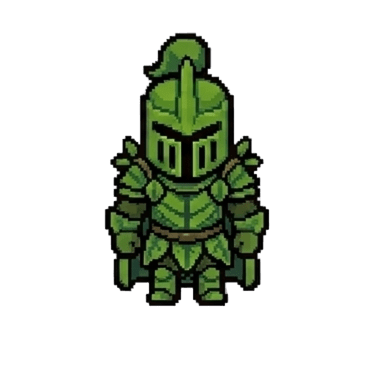
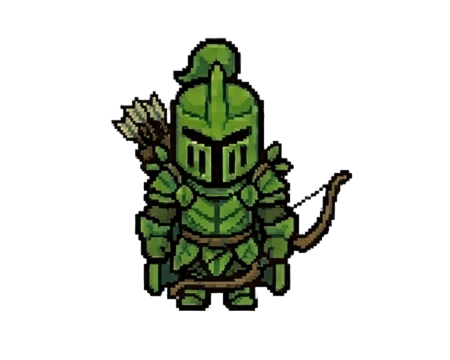
inserimento meccaniche per il lancio delle freccie e inserimento di altre immagini (per il lancio delle freccie)

Changed region(s): [[0.2372, 0.0611, 0.8005, 0.8861]]

diff --git a/src/main/resources/css/style.css b/src/main/resources/css/style.css
@@ -8,8 +8,10 @@
     -fx-border-color: #c9a961;                       /* Bordo dorato */
     -fx-border-width: 2;
     -fx-border-radius: 15;
-    -fx-padding: 10 10 10 10;                              /* Padding verticale e orizzontale */
+    -fx-padding: 15;                              /* Padding verticale e orizzontale */
     -fx-effect: dropshadow(gaussian, rgba(0, 0, 0, 0.9), 15, 0, 0, 5);
+    -fx-max-height: 50;
+    -fx-max-width: 850;
 }
 
 /* Label vita - rosso acceso */

diff --git a/src/main/java/it/unicam/cs/mpgc/rpg/m131177/game/Player.java b/src/main/java/it/unicam/cs/mpgc/rpg/m131177/game/Player.java
@@ -8,8 +8,8 @@ public class Player {
 
     private double x;
     private double y;
-    private double width = 70;
-    private double height = 70;
+    private double width = 80;
+    private double height = 80;
     private double speed = 200;
 
     private double minX, maxX, minY, maxY;
@@ -20,6 +20,12 @@ public class Player {
 
     // Direzione attuale (di default guarda in basso)
     private Direction currentDirection = Direction.DOWN;
+    // Immagini sparo (NUOVE)
+    private Image imgShootUp, imgShootDown, imgShootLeft, imgShootRight;
+
+    // Timer per l'animazione di sparo
+    private double shootingTimer = 0;
+    private static final double SHOOTING_DURATION = 0.15; // Durata in secondi della posa di sparo
 
     public enum Direction {
         UP, DOWN, LEFT, RIGHT
@@ -48,6 +54,12 @@ public class Player {
         imgDown = loadImage("/images/weed_down.png");
         imgLeft = loadImage("/images/weed_left.png");
         imgRight = loadImage("/images/weed_right.png");
+
+        // Sparo
+        imgShootUp = loadImage("/images/weed_up_shoot.png");
+        imgShootDown = loadImage("/images/weed_down_shoot.png");
+        imgShootLeft = loadImage("/images/weed_left_shoot.png");
+        imgShootRight = loadImage("/images/weed_right_shoot.png");
     }
 
     private Image loadImage(String path) {
@@ -63,45 +75,103 @@ public class Player {
                        boolean leftPressed, boolean rightPressed) {
 
         double movement = speed * dt;
-
-        // Aggiorna la direzione e lo sprite in base ai tasti premuti
-        // (Priorità: Verticale > Orizzontale, per evitare movimenti diagonali confusi)
-        if (upPressed) {
-            y -= movement;
-            currentDirection = Direction.UP;
-            currentImg = imgUp;
-        } else if (downPressed) {
-            y += movement;
-            currentDirection = Direction.DOWN;
-            currentImg = imgDown;
-        } else if (leftPressed) {
-            x -= movement;
-            currentDirection = Direction.LEFT;
-            currentImg = imgLeft;
-        } else if (rightPressed) {
-            x += movement;
-            currentDirection = Direction.RIGHT;
-            currentImg = imgRight;
+// Se il timer di sparo è attivo, non cambiare l'immagine di movimento
+        if (shootingTimer > 0) {
+            shootingTimer -= dt; // Decrementa il timer
+            if (shootingTimer <= 0) {
+                // Tempo scaduto: torna alla posa normale
+                revertToNormalSprite();
+            }
+        } else {
+            // Logica di movimento normale
+            if (upPressed) {
+                y -= movement;
+                currentDirection = Direction.UP;
+                currentImg = imgUp;
+            } else if (downPressed) {
+                y += movement;
+                currentDirection = Direction.DOWN;
+                currentImg = imgDown;
+            } else if (leftPressed) {
+                x -= movement;
+                currentDirection = Direction.LEFT;
+                currentImg = imgLeft;
+            } else if (rightPressed) {
+                x += movement;
+                currentDirection = Direction.RIGHT;
+                currentImg = imgRight;
+            }
         }
 
-        // Clamp: mantiene il player dentro i limiti
+        // Clamp bordi
         x = Math.max(minX, Math.min(x, maxX));
         y = Math.max(minY, Math.min(y, maxY));
     }
 
+    /**
+     * Ripristina l'immagine di movimento in base alla direzione attuale.
+     */
+    private void revertToNormalSprite() {
+        switch (currentDirection) {
+            case UP: currentImg = imgUp; break;
+            case DOWN: currentImg = imgDown; break;
+            case LEFT: currentImg = imgLeft; break;
+            case RIGHT: currentImg = imgRight; break;
+        }
+    }
+
+    // Aggiungi questo metodo alla classe Player
+
+    /**
+     * Crea e restituisce un proiettile (freccia) nella direzione corrente del player.
+     * La freccia parte dal centro del player.
+     */
+    public Projectile shoot() {
+        double startX = x + width / 2 - 10;
+        double startY = y + height / 2 - 4;
+
+        double dirX = 0;
+        double dirY = 0;
+
+        // Attiva il timer di sparo e cambia l'immagine
+        shootingTimer = SHOOTING_DURATION;
+
+        switch (currentDirection) {
+            case UP:
+                dirY = -1;
+                startY = y - 10;
+                currentImg = imgShootUp; // Cambia sprite
+                break;
+            case DOWN:
+                dirY = 1;
+                startY = y + height;
+                currentImg = imgShootDown;
+                break;
+            case LEFT:
+                dirX = -1;
+                startX = x - 20;
+                currentImg = imgShootLeft;
+                break;
+            case RIGHT:
+                dirX = 1;
+                startX = x + width;
+                currentImg = imgShootRight;
+                break;
+        }
+
+        return new Projectile(startX, startY, dirX, dirY);
+    }
+
     public void render(GraphicsContext gc) {
-        // Se le immagini sono state caricate correttamente, disegnale
         if (currentImg != null) {
             gc.drawImage(currentImg, x, y, width, height);
         } else {
-            // FALLBACK: Se le immagini mancano, disegna il cerchio verde
+            // Fallback cerchio verde
             gc.setFill(Color.LIMEGREEN);
             gc.fillOval(x, y, width, height);
             gc.setStroke(Color.DARKGREEN);
             gc.setLineWidth(2);
             gc.strokeOval(x, y, width, height);
-
-            // Occhi di fallback
             gc.setFill(Color.BLACK);
             gc.fillOval(x + 10, y + 12, 6, 6);
             gc.fillOval(x + 24, y + 12, 6, 6);

diff --git a/src/main/java/it/unicam/cs/mpgc/rpg/m131177/game/GameLoop.java b/src/main/java/it/unicam/cs/mpgc/rpg/m131177/game/GameLoop.java
@@ -4,6 +4,9 @@ import it.unicam.cs.mpgc.rpg.m131177.controller.GameController;
 import javafx.animation.AnimationTimer;
 import javafx.scene.canvas.GraphicsContext;
 import javafx.scene.paint.Color;
+import java.util.ArrayList;
+import java.util.Iterator;
+import java.util.List;
 
 /**
  * Game Loop principale.
@@ -19,6 +22,7 @@ public class GameLoop extends AnimationTimer {
     private static final double NANOS_PER_SECOND = 1_000_000_000.0;
 
     private Player player;
+    private List<Projectile> projectiles; // Lista di frecce attive
 
     // Stato dei tasti
     private boolean upPressed = false;
@@ -32,6 +36,7 @@ public class GameLoop extends AnimationTimer {
     public GameLoop(GraphicsContext gc, GameController controller) {
         this.gc = gc;
         this.controller = controller;
+        this.projectiles = new ArrayList<>();
 
         // Inizializza il player al centro, con limite HUD
         double canvasWidth = gc.getCanvas().getWidth();
@@ -41,7 +46,6 @@ public class GameLoop extends AnimationTimer {
 
     @Override
     public void handle(long now) {
-        // Calcolo Delta Time
         if (lastTime == 0) {
             lastTime = now;
             return;
@@ -50,28 +54,43 @@ public class GameLoop extends AnimationTimer {
         deltaTime = (now - lastTime) / NANOS_PER_SECOND;
         lastTime = now;
 
-        // Aggiorna logica
         update(deltaTime);
-
-        // Renderizza
         render();
     }
 
     private void update(double dt) {
-        // Aggiorna il player in base ai tasti premuti
+        // Aggiorna il player
         player.update(dt, upPressed, downPressed, leftPressed, rightPressed);
+
+        // Aggiorna tutti i proiettili e rimuovi quelli inattivi
+        Iterator<Projectile> iterator = projectiles.iterator();
+        while (iterator.hasNext()) {
+            Projectile p = iterator.next();
+            if (!p.update(dt, gc.getCanvas().getWidth(), gc.getCanvas().getHeight())) {
+                iterator.remove(); // Rimuovi se uscito dallo schermo
+            }
+        }
     }
 
     private void render() {
-        // Pulisci il canvas
         gc.clearRect(0, 0, gc.getCanvas().getWidth(), gc.getCanvas().getHeight());
+
+        // Disegna i proiettili (sotto il player)
+        for (Projectile p : projectiles) {
+            p.render(gc);
+        }
 
         // Disegna il player
         player.render(gc);
+    }
 
-        // Debug: mostra coordinate (opzionale, rimuovi in produzione)
-        gc.setFill(Color.WHITE);
-        gc.fillText(String.format("Pos: (%.0f, %.0f)", player.getX(), player.getY()), 10, gc.getCanvas().getHeight() - 10);
+    /**
+     * Metodo chiamato dal controller quando il giocatore preme SPAZIO.
+     * Crea una nuova freccia e la aggiunge alla lista.
+     */
+    public void shoot() {
+        Projectile arrow = player.shoot();
+        projectiles.add(arrow);
     }
 
     // Metodi per gestire gli input (chiamati dal GameController)

diff --git a/src/main/java/it/unicam/cs/mpgc/rpg/m131177/game/Projectile.java b/src/main/java/it/unicam/cs/mpgc/rpg/m131177/game/Projectile.java
@@ -1,0 +1,77 @@
+package it.unicam.cs.mpgc.rpg.m131177.game;
+
+import javafx.scene.canvas.GraphicsContext;
+import javafx.scene.image.Image;
+import javafx.scene.paint.Color;
+
+/**
+ * Rappresenta un proiettile (freccia) sparato dal giocatore.
+ * Si muove in linea retta nella direzione in cui è stato sparato.
+ */
+public class Projectile {
+
+    private double x;
+    private double y;
+    private double width = 20;
+    private double height = 8;
+    private double speed = 500; // pixel al secondo (più veloce del player)
+
+    private double directionX; // -1, 0, 1
+    private double directionY; // -1, 0, 1
+
+    private boolean active = true;
+    private Image arrowImage;
+
+    /**
+     * Crea un proiettile alla posizione del player, nella direzione specificata.
+     */
+    public Projectile(double startX, double startY, double dirX, double dirY) {
+        this.x = startX;
+        this.y = startY;
+        this.directionX = dirX;
+        this.directionY = dirY;
+
+        // Carica l'immagine della freccia (con fallback)
+        try {
+            arrowImage = new Image(getClass().getResourceAsStream("/images/arrow.png"));
+        } catch (Exception e) {
+            arrowImage = null; // Useremo il rettangolo di fallback
+        }
+    }
+
+    /**
+     * Aggiorna la posizione del proiettile.
+     * @return true se il proiettile è ancora attivo (dentro lo schermo)
+     */
+    public boolean update(double dt, double canvasWidth, double canvasHeight) {
+        x += directionX * speed * dt;
+        y += directionY * speed * dt;
+
+        // Disattiva se esce dallo schermo
+        if (x < -width || x > canvasWidth || y < -height || y > canvasHeight) {
+            active = false;
+        }
+
+        return active;
+    }
+
+    /**
+     * Disegna il proiettile sul canvas.
+     */
+    public void render(GraphicsContext gc) {
+        if (arrowImage != null) {
+            gc.drawImage(arrowImage, x, y, width, height);
+        } else {
+            // Fallback: rettangolo giallo (freccia stilizzata)
+            gc.setFill(Color.GOLD);
+            gc.fillRect(x, y, width, height);
+        }
+    }
+
+    // Getters per collisioni future
+    public double getX() { return x; }
+    public double getY() { return y; }
+    public double getWidth() { return width; }
+    public double getHeight() { return height; }
+    public boolean isActive() { return active; }
+}

diff --git a/src/main/java/it/unicam/cs/mpgc/rpg/m131177/controller/GameController.java b/src/main/java/it/unicam/cs/mpgc/rpg/m131177/controller/GameController.java
@@ -43,6 +43,12 @@ public class GameController {
             if (key == KeyCode.S || key == KeyCode.DOWN) gameLoop.setDownPressed(true);
             if (key == KeyCode.A || key == KeyCode.LEFT) gameLoop.setLeftPressed(true);
             if (key == KeyCode.D || key == KeyCode.RIGHT) gameLoop.setRightPressed(true);
+
+            // Sparo con SPAZIO
+            if (key == KeyCode.SPACE) {
+                gameLoop.shoot();
+                event.consume(); // Evita che lo spazio faccia scroll o altre azioni
+            }
         });
 
         gameCanvas.getScene().setOnKeyReleased(event -> {
